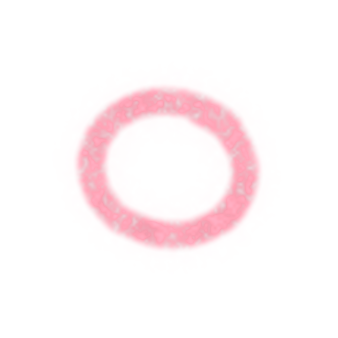
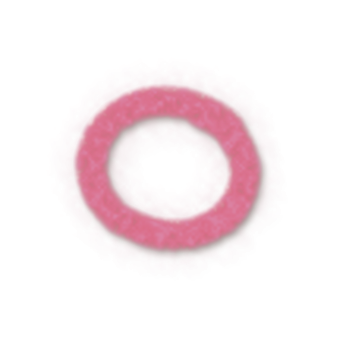
src: Cờ caro quân X O đậm (quan_dam.py)
Claude-Session: https://claude.ai/code/session_01TQanoZRkfXuhX3uAoVZU4e

Changed region(s): [[0.2071, 0.2367, 0.7988, 0.7692]]

diff --git a/src/tools/caro/nen9/quan_dam.py b/src/tools/caro/nen9/quan_dam.py
@@ -1,0 +1,17 @@
+import sys, numpy as np
+from PIL import Image, ImageFilter
+src, dst = sys.argv[1], sys.argv[2]
+im = Image.open(src).convert('RGBA'); a = np.asarray(im).astype(np.float32) / 255
+rgb, al = a[..., :3], a[..., 3]
+# màu đậm + tươi hơn: tăng độ bão hoà, hạ sáng nhẹ
+l = (rgb * [0.299, 0.587, 0.114]).sum(-1, keepdims=True)
+rgb = np.clip(l + (rgb - l) * 1.9, 0, 1) * 0.86
+# phấn dày hơn: ít lỗ rỗ
+al2 = 1 - (1 - al) ** 2.2
+# bóng đổ mềm dưới quân cho nổi lên mặt phản
+A = Image.fromarray((al2 * 255).astype(np.uint8)).filter(ImageFilter.GaussianBlur(3))
+sh = np.roll(np.roll(np.asarray(A).astype(np.float32) / 255, 4, 0), 3, 1) * 0.45
+out_a = al2 + sh * (1 - al2)
+col = (rgb * al2[..., None] + np.array([0.12, 0.07, 0.03]) * (sh * (1 - al2))[..., None]) / np.maximum(out_a, 1e-4)[..., None]
+o = np.dstack([np.clip(col, 0, 1), out_a])
+Image.fromarray((o * 255).round().astype(np.uint8)).save(dst, lossless=True, quality=100, method=6)
